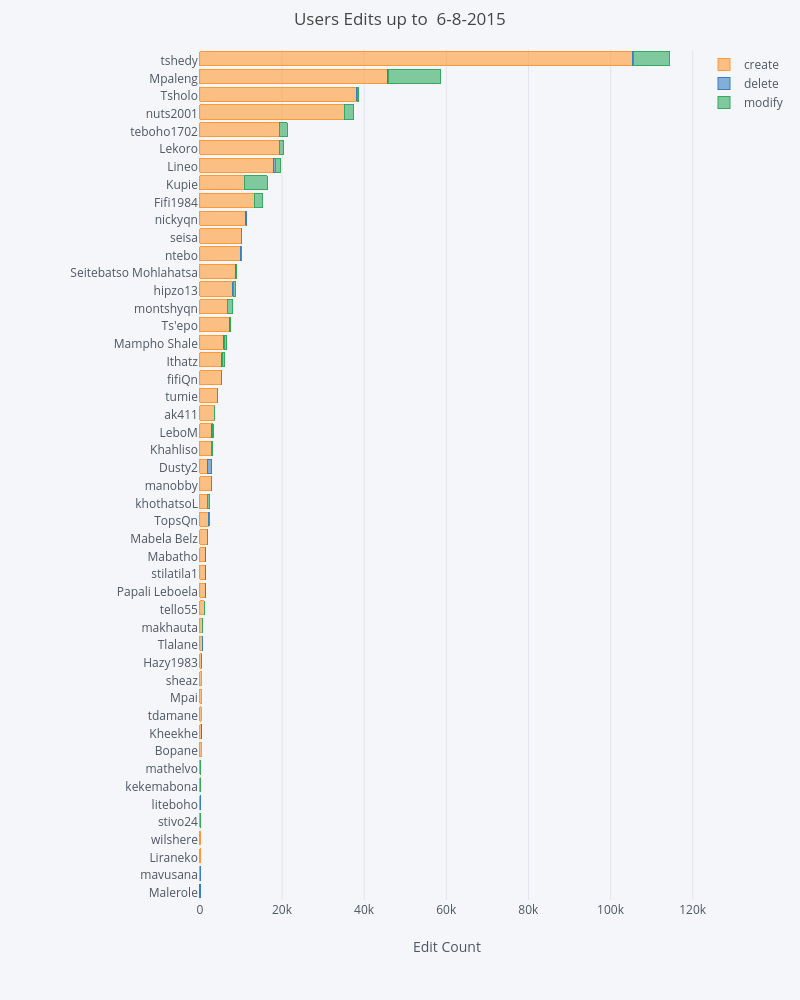
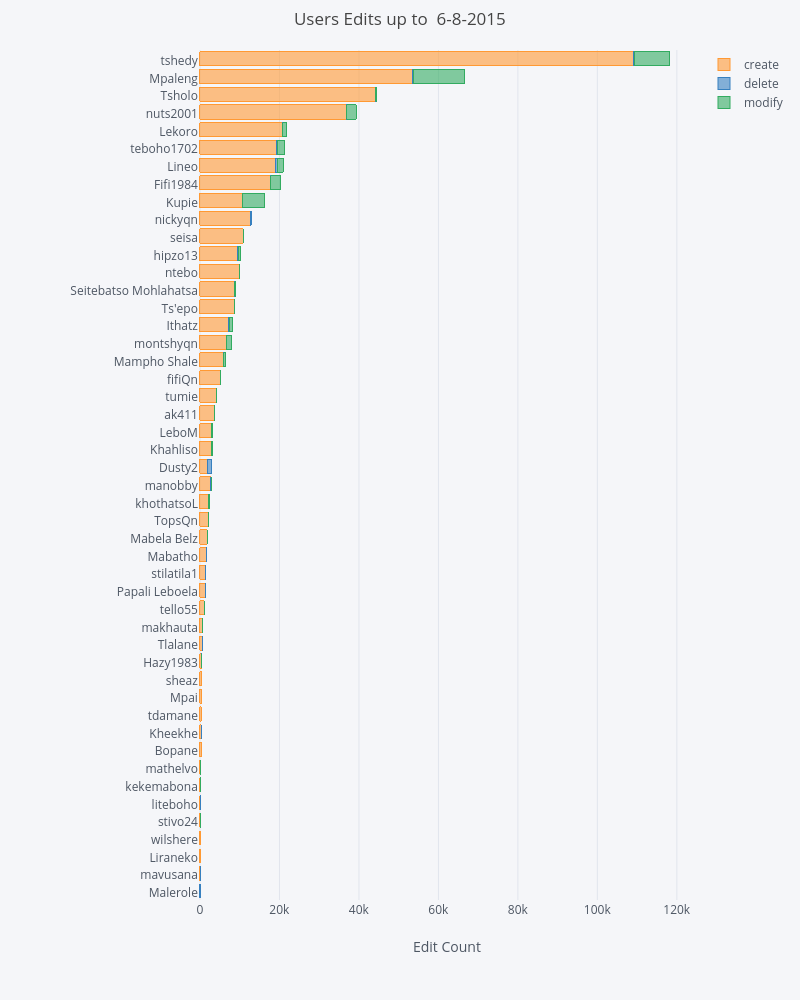
forgot to update tabel - updated stats 06-08-2015

diff --git a/index.html b/index.html
@@ -73,52 +73,59 @@
   <tbody>
     <tr>
       <td>tshedy</td>
-      <td>105374</td>
-      <td>262</td>
-      <td>8654</td>
-      <td>114290</td>
+      <td>109087</td>
+      <td>268</td>
+      <td>8745</td>
+      <td>118100</td>
     </tr>
     <tr>
       <td>Mpaleng</td>
-      <td>45732</td>
-      <td>141</td>
-      <td>12588</td>
-      <td>58461</td>
+      <td>53460</td>
+      <td>209</td>
+      <td>12985</td>
+      <td>66654</td>
     </tr>
     <tr>
       <td>Tsholo</td>
-      <td>38207</td>
+      <td>44054</td>
       <td>236</td>
-      <td>151</td>
-      <td>38594</td>
+      <td>152</td>
+      <td>44442</td>
     </tr>
     <tr>
       <td>nuts2001</td>
-      <td>35095</td>
+      <td>36785</td>
       <td>190</td>
-      <td>2181</td>
-      <td>37466</td>
+      <td>2345</td>
+      <td>39320</td>
+    </tr>
+    <tr>
+      <td>Lekoro</td>
+      <td>20835</td>
+      <td>43</td>
+      <td>901</td>
+      <td>21779</td>
     </tr>
     <tr>
       <td>teboho1702</td>
       <td>19279</td>
-      <td>188</td>
+      <td>276</td>
       <td>1736</td>
-      <td>21203</td>
-    </tr>
-    <tr>
-      <td>Lekoro</td>
-      <td>19423</td>
-      <td>43</td>
-      <td>893</td>
-      <td>20359</td>
+      <td>21291</td>
     </tr>
     <tr>
       <td>Lineo</td>
-      <td>17894</td>
+      <td>18928</td>
       <td>467</td>
-      <td>1267</td>
-      <td>19628</td>
+      <td>1564</td>
+      <td>20959</td>
+    </tr>
+    <tr>
+      <td>Fifi1984</td>
+      <td>17687</td>
+      <td>153</td>
+      <td>2452</td>
+      <td>20292</td>
     </tr>
     <tr>
       <td>Kupie</td>
@@ -128,25 +135,25 @@
       <td>16325</td>
     </tr>
     <tr>
-      <td>Fifi1984</td>
-      <td>13201</td>
-      <td>153</td>
-      <td>1961</td>
-      <td>15315</td>
-    </tr>
-    <tr>
       <td>nickyqn</td>
-      <td>11159</td>
+      <td>12671</td>
       <td>179</td>
       <td>0</td>
-      <td>11338</td>
+      <td>12850</td>
     </tr>
     <tr>
       <td>seisa</td>
-      <td>10092</td>
+      <td>10846</td>
       <td>25</td>
       <td>4</td>
-      <td>10121</td>
+      <td>10875</td>
+    </tr>
+    <tr>
+      <td>hipzo13</td>
+      <td>9524</td>
+      <td>125</td>
+      <td>654</td>
+      <td>10303</td>
     </tr>
     <tr>
       <td>ntebo</td>
@@ -163,11 +170,18 @@
       <td>8951</td>
     </tr>
     <tr>
-      <td>hipzo13</td>
-      <td>7975</td>
-      <td>125</td>
-      <td>587</td>
-      <td>8687</td>
+      <td>Ts'epo</td>
+      <td>8696</td>
+      <td>62</td>
+      <td>34</td>
+      <td>8792</td>
+    </tr>
+    <tr>
+      <td>Ithatz</td>
+      <td>7271</td>
+      <td>148</td>
+      <td>717</td>
+      <td>8136</td>
     </tr>
     <tr>
       <td>montshyqn</td>
@@ -177,25 +191,11 @@
       <td>7881</td>
     </tr>
     <tr>
-      <td>Ts'epo</td>
-      <td>7270</td>
-      <td>62</td>
-      <td>33</td>
-      <td>7365</td>
-    </tr>
-    <tr>
       <td>Mampho Shale</td>
       <td>5836</td>
       <td>195</td>
       <td>460</td>
       <td>6491</td>
-    </tr>
-    <tr>
-      <td>Ithatz</td>
-      <td>5287</td>
-      <td>148</td>
-      <td>634</td>
-      <td>6069</td>
     </tr>
     <tr>
       <td>fifiQn</td>
@@ -227,10 +227,10 @@
     </tr>
     <tr>
       <td>Khahliso</td>
-      <td>2748</td>
+      <td>2776</td>
       <td>24</td>
-      <td>349</td>
-      <td>3121</td>
+      <td>357</td>
+      <td>3157</td>
     </tr>
     <tr>
       <td>Dusty2</td>
@@ -248,10 +248,10 @@
     </tr>
     <tr>
       <td>khothatsoL</td>
-      <td>1901</td>
+      <td>2087</td>
       <td>0</td>
-      <td>338</td>
-      <td>2239</td>
+      <td>347</td>
+      <td>2434</td>
     </tr>
     <tr>
       <td>TopsQn</td>
@@ -269,10 +269,10 @@
     </tr>
     <tr>
       <td>Mabatho</td>
-      <td>1428</td>
+      <td>1577</td>
       <td>25</td>
       <td>0</td>
-      <td>1453</td>
+      <td>1602</td>
     </tr>
     <tr>
       <td>stilatila1</td>
